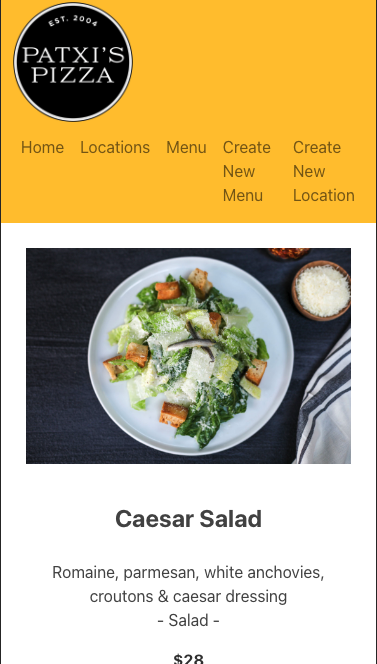
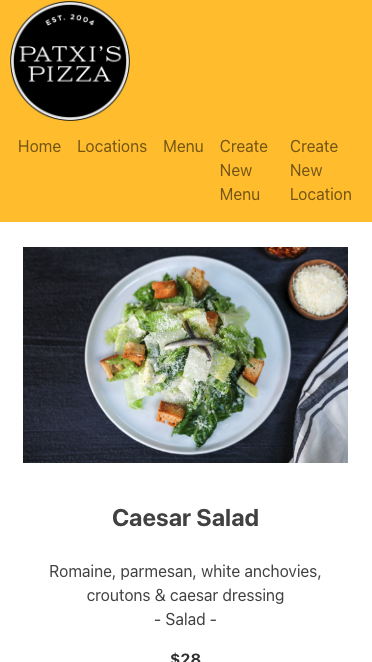
update README file

diff --git a/README.md b/README.md
@@ -2,9 +2,9 @@
 This restaurant web application makes it easy for restaurant owner to create and update their restaurant profiles and menus to showcase delicious food and connect with customers.
 
 ## Screenshot
-<img src="public/assets/images/restaurant-1.png" alt="restaurant-1" width="700" height="490">
-<img src="public/assets/images/restaurant-2.png" alt="restaurant-2" width="700" height="490">
-<img src="public/assets/images/restaurant-3.png" alt="restaurant-3" width="700" height="490">
+<img src="public/assets/images/restaurant-1.png" alt="restaurant-1" width="374" height="664">
+<img src="public/assets/images/restaurant-2.png" alt="restaurant-2" width="372" height="662">
+<img src="public/assets/images/restaurant-3.png" alt="restaurant-3" width="374" height="667">
 
 ## Technologies Used
 - MongoDB/Mongoose
